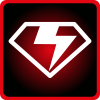
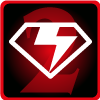
adding Vue

diff --git a/css/main.css b/css/main.css
@@ -1,1 +1,1 @@
-*,*:before,*:after{box-sizing:border-box}html,body,div,span,object,iframe,figure,h1,h2,h3,h4,h5,h6,p,blockquote,pre,a,code,em,img,small,strike,strong,sub,sup,tt,b,u,i,ol,ul,li,fieldset,form,label,table,caption,tbody,tfoot,thead,tr,th,td,main,canvas,embed,footer,header,nav,section,video{margin:0;padding:0;border:0;font-size:100%;font:inherit;vertical-align:baseline;text-rendering:optimizeLegibility;-webkit-font-smoothing:antialiased;text-size-adjust:none}footer,header,nav,section,main{display:block}body{line-height:1}ol,ul{list-style:none}blockquote,q{quotes:none}blockquote:before,blockquote:after,q:before,q:after{content:"";content:none}table{border-collapse:collapse;border-spacing:0}input{-webkit-appearance:none;border-radius:0}body{background-color:#000;color:#fff;font-size:16px}.hidden{display:none}@media screen and (min-width: 768px){#team-section{display:grid;grid-template-columns:repeat(auto-fit, minmax(170px, 1fr))}#main_buttons{padding:0px 150px;display:flex;justify-content:space-around;align-items:center}}#team-section{display:flex;flex-direction:column;align-items:center}main article{color:#87eb55;background:#692525}main article aside{color:pink;background-color:brown}.main_logo{display:flex;justify-content:center;margin:40px 0px}#main_buttons{margin:50px 0px;display:flex;justify-content:space-around;align-items:center}#main_buttons a:hover{transform:scale(1.2);transition:width .5s,height .5s,transform .5s}footer{color:#fff;background-color:blue;font-size:.5em}footer ul{float:right}footer ul li{cursor:pointer}.bio_panel .p_name{text-transform:uppercase;font-size:2em;margin-bottom:.8em}.bio_panel .p_role{font-size:1em}.bio_panel .p_nickname{font-size:.7em}/*# sourceMappingURL=main.css.map */
+*,*:before,*:after{box-sizing:border-box}html,body,div,span,object,iframe,figure,h1,h2,h3,h4,h5,h6,p,blockquote,pre,a,code,em,img,small,strike,strong,sub,sup,tt,b,u,i,ol,ul,li,fieldset,form,label,table,caption,tbody,tfoot,thead,tr,th,td,main,canvas,embed,footer,header,nav,section,video{margin:0;padding:0;border:0;font-size:100%;font:inherit;vertical-align:baseline;text-rendering:optimizeLegibility;-webkit-font-smoothing:antialiased;text-size-adjust:none}footer,header,nav,section,main{display:block}body{line-height:1}ol,ul{list-style:none}blockquote,q{quotes:none}blockquote:before,blockquote:after,q:before,q:after{content:"";content:none}table{border-collapse:collapse;border-spacing:0}input{-webkit-appearance:none;border-radius:0}body{background-color:#000;color:#fff;font-size:16px;font-family:"Libre Franklin",sans-serif}body .hidden{display:none}@media screen and (min-width: 768px){#team-section{display:grid}#main_buttons{padding:0px 150px;display:flex;justify-content:space-around;align-items:center}}#team-section{display:flex;flex-direction:column;align-items:center}main article{color:#87eb55;background:#692525}main article aside{color:pink;background-color:brown}.main_logo{display:flex;justify-content:center;margin:40px 0px}#main_buttons{margin:50px 0px;display:flex;justify-content:space-around;align-items:center}#main_buttons a:hover{transform:scale(1.2);transition:width .5s,height .5s,transform .5s}footer{color:#fff;background-color:blue;font-size:.5em}footer ul{float:right}footer ul li{cursor:pointer}.bio_panel{width:450px;display:flex;flex-direction:column;align-items:center}.bio_panel h1{text-transform:uppercase;font-size:2em;margin:10px;text-align:center;font-weight:800}.bio_panel h2{width:434px;font-size:1.3em;margin:10px;text-align:center;font-weight:800}.bio_panel p{font-size:1em;text-align:justify;margin:10px 20px;line-height:1.3em}/*# sourceMappingURL=main.css.map */

diff --git a/js/main.js b/js/main.js
@@ -1,44 +1,42 @@
-// imports always go at the top of the file
-//this is called an IIFE (Inmediatly Invoked Function Expression)
-// import { person } from "./modules/data.js";
-import { getData } from "./modules/dataMiner.js";
+	
+(()=> {
 
-//it's a pretty common JavaScript programming pattern
-//also called a module file
-(() => {
-    console.log('3 Favourite Things');
+    const { createApp } = Vue
+    
+    createApp({
+        created() {
+            console.log('Vue Instance is Created');
+            //Fetch the remote data here and pass it to the data object
 
-    let theTeam = document.querySelector('#team-section'),
-        theTemplate = document.querySelector('#bio-template').content;
+            fetch('./data.json')
+            .then(res => res.json())
+            .then(data => {
+                console.log(data);
 
-    // Just a test to see if this is imported properly
-    getData();
+                //Push the data into the vue instance
+                //The "this" keyword inside of the Vue instance ALWAYS refers to the instance itself
+                this.remoteData = data;
+            })
+            .catch(error => console.error(error));
+        },
 
-        //debugger;
+        data() {
+            return {
+            welcome: 'Hello Vue!',
+            name: 'Your name here',
+            profs: ['Joe', 'Jhon', 'Justin', 'Jarrod'],
+            remoteData: {}
+                }
+            },
 
-    function buildTeam(data) {
-        //get all the keys (names) from the data object and use that to iterate through the data
-        
-        //debugger;
-        const people = Object.keys(data); // Object.keys creates an array
-
-        people.forEach(prof => {
-            // copy the template's contents
-            let panel = theTemplate.cloneNode(true);
-
-            // get a reference to the template's elements
-            let containers = panel.firstElementChild.children;
-
-            // grab the image from the object and set it as the source
-            containers[0].querySelector('img').src = `images/${data[prof].avatar}`;
-
-            containers[1].textContent = data[prof].name;
-            containers[2].textContent = data[prof].role;
-            containers[3].textContent = data[prof].nickname;
-
-            theTeam.appendChild(panel);
-        })
+    methods: {
+        logClick() {
+            console.log('Clicked!');
+        }
     }
 
-    getData(buildTeam);
-})();
+    }).mount('#team-section')
+    
+    
+    })();
+    

diff --git a/illustrator.html b/illustrator.html
@@ -4,6 +4,9 @@
     <meta charset="UTF-8">
     <meta http-equiv="X-UA-Compatible" content="IE=edge">
     <meta name="viewport" content="width=device-width, initial-scale=1.0">
+    <link rel="preconnect" href="https://fonts.googleapis.com">
+    <link rel="preconnect" href="https://fonts.gstatic.com" crossorigin>
+    <link href="https://fonts.googleapis.com/css2?family=Libre+Franklin:wght@100;400;800&display=swap" rel="stylesheet">
     
     <link rel="stylesheet" href="css/main.css">
     
@@ -18,40 +21,22 @@
 
     <section id="main_buttons">
         <a href="illustrator.html"><img src="images/illustrator_2.png" alt="Illustrator Icon"></a>
-        <a href="#.html"><img src="images/super_heroe.png" alt="Super Heroe Logo"></a>
-        <a href="#.html"><img src="images/band.png" alt="Band Logo"></a>
+        <a href="superheroe.html"><img src="images/super_heroe.png" alt="Super Heroe Logo"></a>
+        <a href="band.html"><img src="images/band.png" alt="Band Logo"></a>
     </section>
 
-    <section id="team-section"></section>
-
-    <!-- template tags should go at the bottom of the HTML markup -->
-    <!-- template tags don't get entered, but their content does -->
-
-    <template id="bio-template">
+    <section id="team-section">
         <section class="bio_panel">
-            <div class="avatar">
-                <!-- src gets added dynamically -->
-                <img src="" alt="prof image">
+            <div v-for="prof in remoteData">
+                <img :src='"images/" + prof.avatar1' alt="">
+                <h1>{{ prof.name1 }}</h1>
+                <h2>{{ prof.role1 }}</h2>
+                <p>{{ prof.nickname1 }}</p>
             </div>
-            <!-- slug is just placeholder - this will get replaced -->
-            <h2 class="p_name">slug</h2>
-            <h3 class="p_role">slug</h3>
-            <p class="p_nickname">slug</p>
         </section>
-    </template>
+    </section>
 
-    <footer>
-        <nav class="subnav">
-            <ul>
-                
-            </ul>
-        </nav>
-    </footer>
-
-<!-- your JS always goes here -->
-<!-- make the JS file wait to be parsed with the defer attribute (last thing the DOM engine reads)-->
-<!-- the type attribute tels the JS engine that we're using modules (standalone JS files)-->
-    <!-- <script src="js/modules/data.js"></script> -->
+    <script src="https://unpkg.com/vue@3/dist/vue.global.js"></script>
     <script src="js/main.js" type="module" defer></script>
 
 </body>

diff --git a/superheroe.html b/superheroe.html
@@ -12,7 +12,6 @@
     
     <title>Pablo Ortiz's 3 Favourite Things</title>
 </head>
-
 <body>
     <h1 class="hidden">Pablo Ortiz's 3 Favourite Things</h1>
 
@@ -22,8 +21,19 @@
 
     <section id="main_buttons">
         <a href="illustrator.html"><img src="images/illustrator.png" alt="Illustrator Icon"></a>
-        <a href="superheroe.html"><img src="images/super_heroe.png" alt="Super Heroe Logo"></a>
+        <a href="superheroe.html"><img src="images/super_heroe_2.png" alt="Super Heroe Logo"></a>
         <a href="band.html"><img src="images/band.png" alt="Band Logo"></a>
+    </section>
+
+    <section id="team-section">
+        <section class="bio_panel">
+            <div v-for="prof in remoteData">
+                <img :src='"images/" + prof.avatar2' alt="">
+                <h1>{{ prof.name2 }}</h1>
+                <h2>{{ prof.role2 }}</h2>
+                <p>{{ prof.nickname2 }}</p>
+            </div>
+        </section>
     </section>
 
     <script src="https://unpkg.com/vue@3/dist/vue.global.js"></script>

diff --git a/band.html b/band.html
@@ -12,7 +12,6 @@
     
     <title>Pablo Ortiz's 3 Favourite Things</title>
 </head>
-
 <body>
     <h1 class="hidden">Pablo Ortiz's 3 Favourite Things</h1>
 
@@ -23,7 +22,18 @@
     <section id="main_buttons">
         <a href="illustrator.html"><img src="images/illustrator.png" alt="Illustrator Icon"></a>
         <a href="superheroe.html"><img src="images/super_heroe.png" alt="Super Heroe Logo"></a>
-        <a href="band.html"><img src="images/band.png" alt="Band Logo"></a>
+        <a href="band.html"><img src="images/band_2.png" alt="Band Logo"></a>
+    </section>
+
+    <section id="team-section">
+        <section class="bio_panel">
+            <div v-for="prof in remoteData">
+                <img :src='"images/" + prof.avatar3' alt="">
+                <h1>{{ prof.name3 }}</h1>
+                <h2>{{ prof.role3 }}</h2>
+                <p>{{ prof.nickname3 }}</p>
+            </div>
+        </section>
     </section>
 
     <script src="https://unpkg.com/vue@3/dist/vue.global.js"></script>

diff --git a/sass/modules/_biopanel.scss b/sass/modules/_biopanel.scss
@@ -1,11 +1,30 @@
 .bio_panel {
-    .p_name {
+    width: 450px;
+    display: flex;
+    flex-direction: column;
+    align-items: center;
+
+    h1 {
         text-transform: uppercase;
         font-size: 2em;
-        margin-bottom: 0.8em;
+        margin: 10px;
+        text-align: center;
+        font-weight: 800;
     }
 
-    .p_role { font-size: 1em;}
-    .p_nickname { font-size: 0.7em;}
+    h2 {
+        width: 434px;
+        font-size: 1.3em;
+        margin: 10px;
+        text-align: center;
+        font-weight: 800;
+    }
+
+    p {
+        font-size: 1em;
+        text-align: justify;
+        margin: 10px 20px;
+        line-height: 1.3em;
+    }
 }
 

diff --git a/sass/modules/_queries.scss b/sass/modules/_queries.scss
@@ -6,7 +6,7 @@
             Make each item's min width 170 pixels and its their max width 1 fraction.
             The grid system will devide up the available space and fit them in.
         */
-        grid-template-columns: repeat(auto-fit, minmax(170px, 1fr));
+       // grid-template-columns: repeat(auto-fit, minmax(170px, 1fr));
     }
 
     #main_buttons {

diff --git a/sass/modules/_defaults.scss b/sass/modules/_defaults.scss
@@ -2,10 +2,12 @@ body {
     background-color: $main-bg;
     color: $main-colour;
     font-size: $main-size;
+    font-family: $font-family;
 
     // more generic rules here
-}
 
-.hidden {
-    display: none;
+    .hidden {
+        display: none;
+    }
+
 }

diff --git a/js/modules/dataMiner.js b/js/modules/dataMiner.js
@@ -1,5 +1,5 @@
 // Create a function to export
-function getData(callback) {
+//function getData(callback) {
     console.log(`Hi, I'm dataMiner`);
 
     // use the Fetch API to go and get out data

diff --git a/sass/modules/_vars.scss b/sass/modules/_vars.scss
@@ -1,4 +1,5 @@
 $main-bg: black;
 $main-colour: white;
 $main-size: 16px;
+$font-family: 'Libre Franklin', sans-serif;
 
